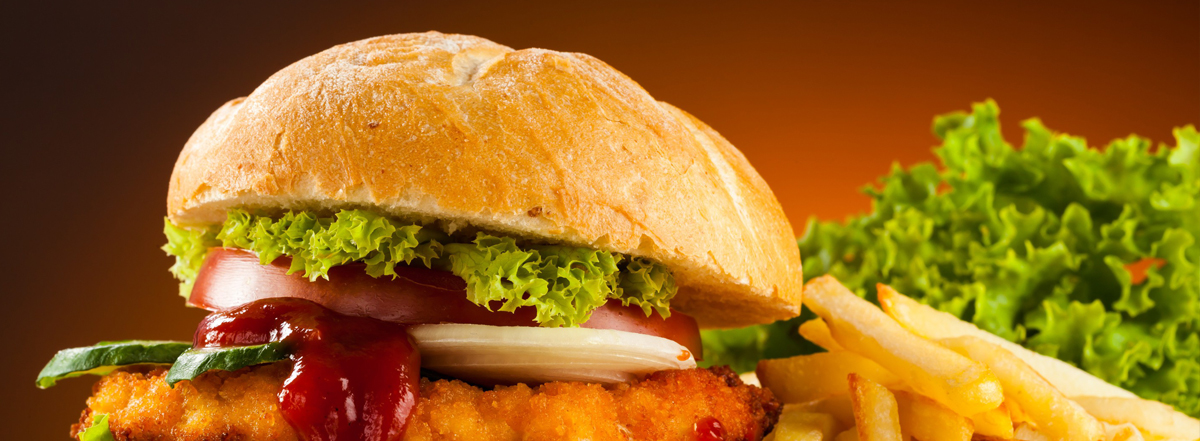
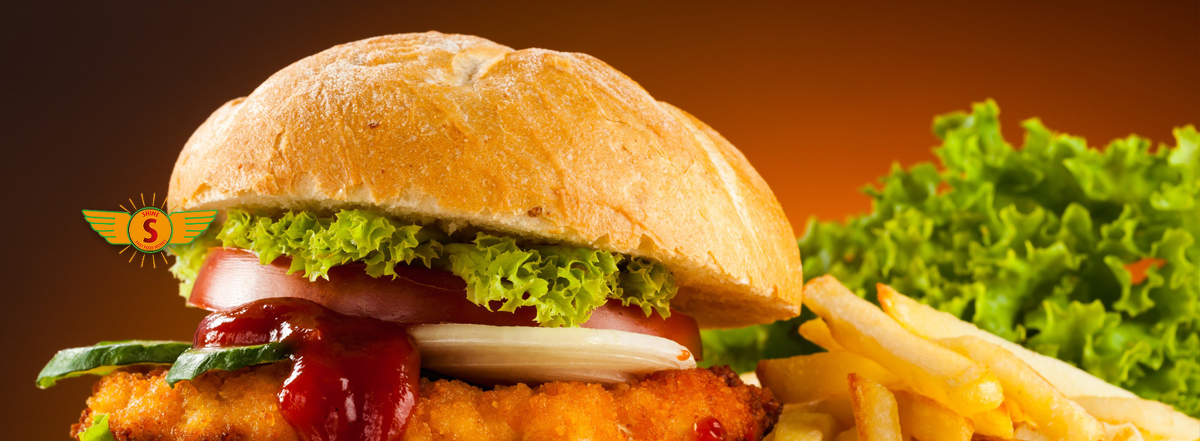
small images shine white

Changed region(s): [[0.0617, 0.4422, 0.185, 0.5896]]

diff --git a/public/stylesheets/style.css b/public/stylesheets/style.css
@@ -65,14 +65,18 @@ margin-bottom: 0px;
 .flex-gout {
   display: flex;
   flex-direction: column;
-  justify-content: center;
+  justify-content:center;
   height: auto;
 }
 
 .gout {
   height: auto;
+  background-image: url(../images/shine-white.png);
+  background-repeat: no-repeat;
+  text-align: right;
 
 }
+
 .sucre {
   background-color: #f19200;
 }
